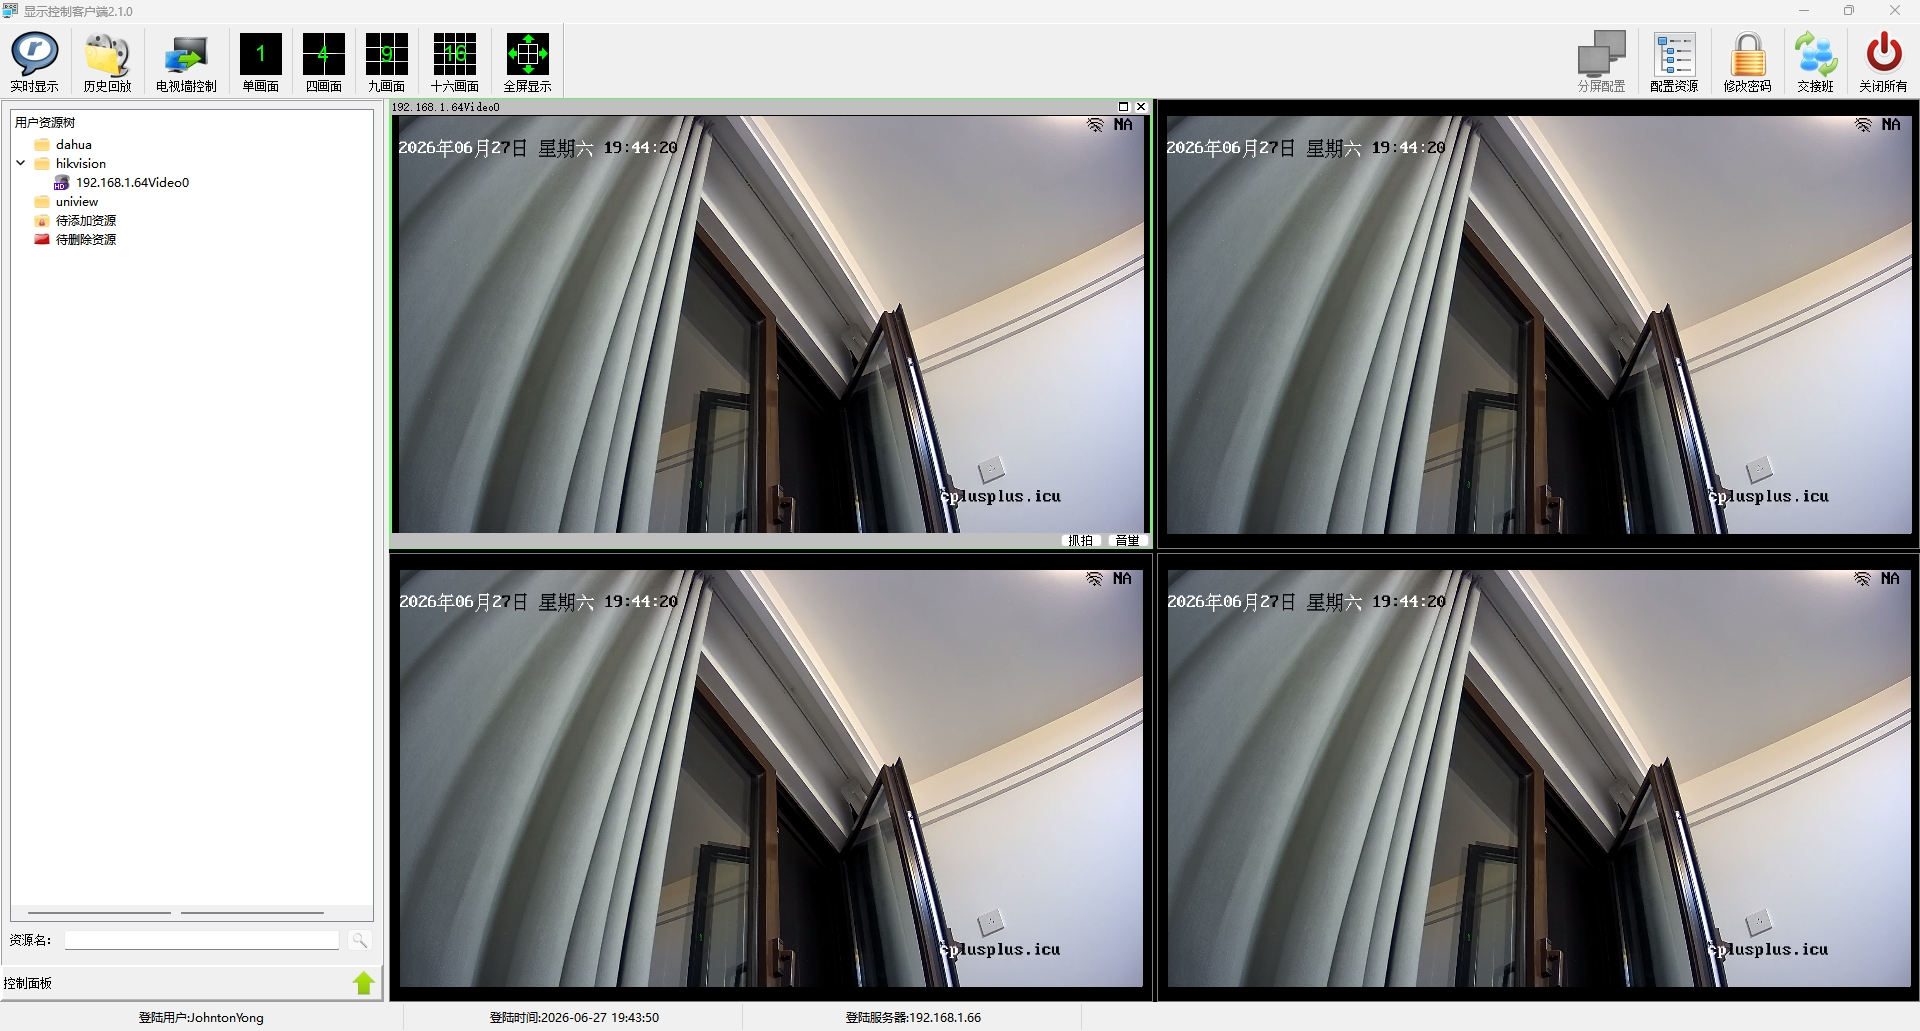
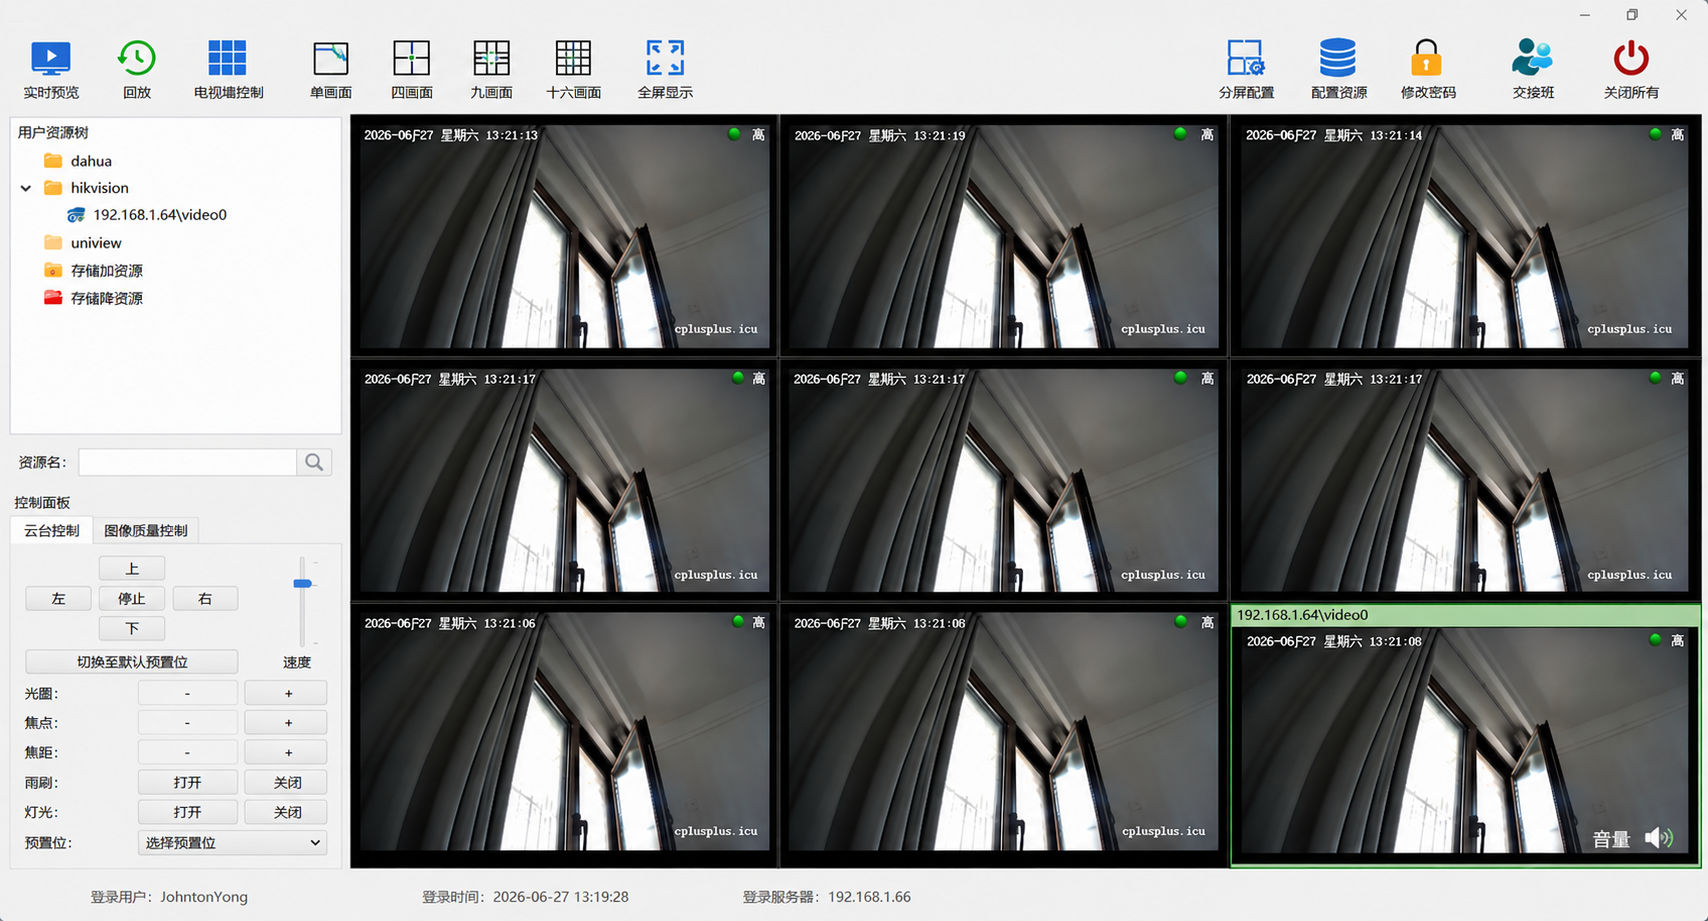
Deploying to gh-pages from @ JohntonYong/JohntonYong.github.io@3825798bbfa2bf3d759f999a42f9381e4f127e44 🚀

diff --git a/404.html b/404.html
@@ -34,7 +34,7 @@
     
   </head>
   <body>
-    <div id="app"><!--[--><!--[--><!--[--><span tabindex="-1"></span><a href="#main-content" class="vp-skip-link sr-only">跳至主要內容</a><!--]--><!--[--><div class="theme-container no-sidebar has-toc"><!--[--><header id="navbar" class="vp-navbar"><div class="vp-navbar-start"><button type="button" class="vp-toggle-sidebar-button" title="Toggle Sidebar"><span class="icon"></span></button><!--[--><!----><!--]--><!--[--><a class="vp-link vp-brand vp-brand" href="/"><img class="vp-nav-logo" src="/logo.svg" alt="C++工程化实践指南"><!----><span class="vp-site-name hide-in-pad">C++工程化实践指南</span></a><!--]--><!--[--><!----><!--]--></div><div class="vp-navbar-center"><!--[--><!----><!--]--><!--[--><!--]--><!--[--><!----><!--]--></div><div class="vp-navbar-end"><!--[--><!----><!--]--><!--[--><nav class="vp-nav-links"><div class="nav-item hide-in-mobile"><a aria-label="首页" class="vp-link nav-link nav-link" href="/"><span class="font-icon icon fa-fw fa-sm fas fa-home" style=""></span>首页<!----></a></div><div class="nav-item hide-in-mobile"><a aria-label="指南" class="vp-link nav-link nav-link" href="/guide/"><span class="font-icon icon fa-fw fa-sm fas fa-terminal" style=""></span>指南<!----></a></div><div class="nav-item hide-in-mobile"><a aria-label="快速开始" class="vp-link nav-link nav-link" href="/tutorial/"><span class="font-icon icon fa-fw fa-sm fas fa-lightbulb" style=""></span>快速开始<!----></a></div><div class="nav-item hide-in-mobile"><div class="dropdown-wrapper"><button type="button" class="dropdown-title" aria-label="参考"><span class="title"><span class="font-icon icon fa-fw fa-sm fas fa-lightbulb" style=""></span>参考</span><span class="arrow"></span><ul class="nav-dropdown"><li class="dropdown-item"><a aria-label="相关标准" class="vp-link nav-link nav-link" href="/reference/resources.html"><span class="font-icon icon fa-fw fa-sm fas fa-font-awesome" style=""></span>相关标准<!----></a></li></ul></button></div></div><div class="nav-item hide-in-mobile"><div class="dropdown-wrapper"><button type="button" class="dropdown-title" aria-label="了解更多"><span class="title"><span class="font-icon icon fa-fw fa-sm fas fa-laptop-code" style=""></span>了解更多</span><span class="arrow"></span><ul class="nav-dropdown"><li class="dropdown-item"><a aria-label="关于作者" class="vp-link nav-link nav-link" href="/more/contact.html"><span class="font-icon icon fa-fw fa-sm fas fa-circle-info" style=""></span>关于作者<!----></a></li><li class="dropdown-item"><a aria-label="2026年2月“十五五”首个中央一号文件解读" class="vp-link nav-link nav-link" href="/more/future-2026.html"><span class="font-icon icon fa-fw fa-sm fas fa-circle-info" style=""></span>2026年2月“十五五”首个中央一号文件解读<!----></a></li></ul></button></div></div></nav><!----><div class="nav-item vp-repo"><a class="vp-repo-link" href="https://github.com/JohntonYong/JohntonYong.github.io" target="_blank" rel="noopener noreferrer" aria-label="GitHub"><svg xmlns="http://www.w3.org/2000/svg" class="icon github-icon" viewBox="[phone redacted]" fill="currentColor" aria-label="github icon" style="width:1.25rem;height:1.25rem;vertical-align:middle;"><path d="M511.957 21.333C241.[phone redacted] [phone redacted] 512c0 [phone redacted].[phone redacted] [phone redacted].[phone redacted].[phone redacted].[phone redacted]-[phone redacted].[phone redacted].[phone redacted]-[phone redacted] [phone redacted].[phone redacted].[phone redacted].[phone redacted] [phone redacted].[phone redacted] [phone redacted]-[phone redacted].[phone redacted]-[phone redacted].[phone redacted].[phone redacted].[phone redacted]-[phone redacted].[phone redacted].346a469.[phone redacted].88-16.554c41.[phone redacted] [phone redacted]-[phone redacted].[phone redacted] [phone redacted] [phone redacted].[phone redacted].[phone redacted] [phone redacted].[phone redacted] [phone redacted] [phone redacted] 90.454v135.85c0 [phone redacted] [phone redacted].87C862.25 [phone redacted].667 [phone redacted].667 512c0-[phone redacted].[phone redacted].667z"></path></svg></a></div><div class="nav-item hide-in-mobile"><button type="button" id="appearance-switch"><svg xmlns="http://www.w3.org/2000/svg" class="icon auto-icon" viewBox="[phone redacted]" fill="currentColor" aria-label="auto icon" style="display:block;"><path d="M512 992C246.[phone redacted] 512S246.[phone redacted] 32s480 [phone redacted].[phone redacted] 480zm0-840c-[phone redacted]-[phone redacted].[phone redacted] 360s360-[phone redacted]-360c0-[phone redacted]-360-360zm0 660V212c165.[phone redacted] [phone redacted] 300-300 300z"></path></svg><svg xmlns="http://www.w3.org/2000/svg" class="icon dark-icon" viewBox="[phone redacted]" fill="currentColor" aria-label="dark icon" style="display:none;"><path d="M524.8 938.667h-4.267a439.[phone redacted].[phone redacted] [phone redacted]-597.334A432.[phone redacted].933 90.027a42.[phone redacted].[phone redacted].[phone redacted] [phone redacted].[phone redacted] [phone redacted] [phone redacted] [phone redacted].[phone redacted].[phone redacted] [phone redacted] 128z"></path></svg><svg xmlns="http://www.w3.org/2000/svg" class="icon light-icon" viewBox="[phone redacted]" fill="currentColor" aria-label="light icon" style="display:none;"><path d="M952 552h-80a40 40 0 0 1 0-80h80a40 40 0 0 1 0 80zM801.88 280.08a41 [phone redacted].96l57.96-58a41.[phone redacted] 58l-58 57.96zM512 752a240 [phone redacted] [phone redacted] 480zm0-560a40 [phone redacted]-40V72a40 [phone redacted] 0v80a40 [phone redacted] 40zm-[phone redacted].96a41.[phone redacted]-58l57.96 58a41 [phone redacted].96zM192 512a40 [phone redacted] 40H72a40 40 0 0 1 0-80h80a40 [phone redacted] 40zm30.12 231.92a41 [phone redacted].96l-57.96 58a41.[phone redacted]-58l58-57.96zM512 832a40 [phone redacted] 40v80a40 [phone redacted] 0v-80a40 [phone redacted]-40zm289.[phone redacted].96a41.[phone redacted] 58l-57.96-58a41 [phone redacted].96z"></path></svg></button></div><!----><!--]--><!--[--><!----><!--]--><button type="button" class="vp-toggle-navbar-button" aria-label="Toggle Navbar" aria-expanded="false" aria-controls="nav-screen"><span><span class="vp-top"></span><span class="vp-middle"></span><span class="vp-bottom"></span></span></button></div></header><!----><!--]--><!----><div class="toggle-sidebar-wrapper"><span class="arrow start"></span></div><aside id="sidebar" class="vp-sidebar"><!--[--><!----><!--]--><ul class="vp-sidebar-links"></ul><!--[--><!----><!--]--></aside><!--[--><main id="main-content" class="vp-page not-found"><div class="not-found-hint"><p class="error-code">404</p><h1 class="error-title">页面不存在</h1><p class="error-hint">我们是怎么来到这儿的？</p></div><div class="actions"><button type="button" class="action-button">返回上一页</button><button type="button" class="action-button">带我回家</button></div></main><!--]--><footer class="vp-footer-wrapper"><div class="vp-footer">MIT Licensed</div><div class="vp-copyright">Copyright © 2026 JohntonYong</div></footer></div><!--]--><!--]--><!----><!--]--></div>
+    <div id="app"><!--[--><!--[--><!--[--><span tabindex="-1"></span><a href="#main-content" class="vp-skip-link sr-only">跳至主要內容</a><!--]--><!--[--><div class="theme-container no-sidebar has-toc"><!--[--><header id="navbar" class="vp-navbar"><div class="vp-navbar-start"><button type="button" class="vp-toggle-sidebar-button" title="Toggle Sidebar"><span class="icon"></span></button><!--[--><!----><!--]--><!--[--><a class="vp-link vp-brand vp-brand" href="/"><img class="vp-nav-logo" src="/logo.svg" alt="C++工程化实践指南"><!----><span class="vp-site-name hide-in-pad">C++工程化实践指南</span></a><!--]--><!--[--><!----><!--]--></div><div class="vp-navbar-center"><!--[--><!----><!--]--><!--[--><!--]--><!--[--><!----><!--]--></div><div class="vp-navbar-end"><!--[--><!----><!--]--><!--[--><nav class="vp-nav-links"><div class="nav-item hide-in-mobile"><a aria-label="首页" class="vp-link nav-link nav-link" href="/"><span class="font-icon icon fa-fw fa-sm fas fa-home" style=""></span>首页<!----></a></div><div class="nav-item hide-in-mobile"><a aria-label="指南" class="vp-link nav-link nav-link" href="/guide/"><span class="font-icon icon fa-fw fa-sm fas fa-terminal" style=""></span>指南<!----></a></div><div class="nav-item hide-in-mobile"><a aria-label="快速开始" class="vp-link nav-link nav-link" href="/tutorial/"><span class="font-icon icon fa-fw fa-sm fas fa-lightbulb" style=""></span>快速开始<!----></a></div><div class="nav-item hide-in-mobile"><div class="dropdown-wrapper"><button type="button" class="dropdown-title" aria-label="参考"><span class="title"><span class="font-icon icon fa-fw fa-sm fas fa-lightbulb" style=""></span>参考</span><span class="arrow"></span><ul class="nav-dropdown"><li class="dropdown-item"><a aria-label="相关标准" class="vp-link nav-link nav-link" href="/reference/resources.html"><span class="font-icon icon fa-fw fa-sm fas fa-font-awesome" style=""></span>相关标准<!----></a></li></ul></button></div></div><div class="nav-item hide-in-mobile"><div class="dropdown-wrapper"><button type="button" class="dropdown-title" aria-label="了解更多"><span class="title"><span class="font-icon icon fa-fw fa-sm fas fa-laptop-code" style=""></span>了解更多</span><span class="arrow"></span><ul class="nav-dropdown"><li class="dropdown-item"><a aria-label="关于作者" class="vp-link nav-link nav-link" href="/more/contact.html"><span class="font-icon icon fa-fw fa-sm fas fa-circle-info" style=""></span>关于作者<!----></a></li><li class="dropdown-item"><a aria-label="2026年2月“十五五”首个中央一号文件解读" class="vp-link nav-link nav-link" href="/more/future-2026.html"><span class="font-icon icon fa-fw fa-sm fas fa-circle-info" style=""></span>2026年2月“十五五”首个中央一号文件解读<!----></a></li></ul></button></div></div></nav><!----><div class="nav-item vp-repo"><a class="vp-repo-link" href="https://github.com/JohntonYong/JohntonYong.github.io" target="_blank" rel="noopener noreferrer" aria-label="GitHub"><svg xmlns="http://www.w3.org/2000/svg" class="icon github-icon" viewBox="[phone redacted]" fill="currentColor" aria-label="github icon" style="width:1.25rem;height:1.25rem;vertical-align:middle;"><path d="M511.957 21.333C241.[phone redacted] [phone redacted] 512c0 [phone redacted].[phone redacted] [phone redacted].[phone redacted].[phone redacted].[phone redacted]-[phone redacted].[phone redacted].[phone redacted]-[phone redacted] [phone redacted].[phone redacted].[phone redacted].[phone redacted] [phone redacted].[phone redacted] [phone redacted]-[phone redacted].[phone redacted]-[phone redacted].[phone redacted].[phone redacted].[phone redacted]-[phone redacted].[phone redacted].346a469.[phone redacted].88-16.554c41.[phone redacted] [phone redacted]-[phone redacted].[phone redacted] [phone redacted] [phone redacted].[phone redacted].[phone redacted] [phone redacted].[phone redacted] [phone redacted] [phone redacted] 90.454v135.85c0 [phone redacted] [phone redacted].87C862.25 [phone redacted].667 [phone redacted].667 512c0-[phone redacted].[phone redacted].667z"></path></svg></a></div><div class="nav-item hide-in-mobile"><button type="button" id="appearance-switch"><svg xmlns="http://www.w3.org/2000/svg" class="icon auto-icon" viewBox="[phone redacted]" fill="currentColor" aria-label="auto icon" style="display:block;"><path d="M512 992C246.[phone redacted] 512S246.[phone redacted] 32s480 [phone redacted].[phone redacted] 480zm0-840c-[phone redacted]-[phone redacted].[phone redacted] 360s360-[phone redacted]-360c0-[phone redacted]-360-360zm0 660V212c165.[phone redacted] [phone redacted] 300-300 300z"></path></svg><svg xmlns="http://www.w3.org/2000/svg" class="icon dark-icon" viewBox="[phone redacted]" fill="currentColor" aria-label="dark icon" style="display:none;"><path d="M524.8 938.667h-4.267a439.[phone redacted].[phone redacted] [phone redacted]-597.334A432.[phone redacted].933 90.027a42.[phone redacted].[phone redacted].[phone redacted] [phone redacted].[phone redacted] [phone redacted] [phone redacted] [phone redacted].[phone redacted].[phone redacted] [phone redacted] 128z"></path></svg><svg xmlns="http://www.w3.org/2000/svg" class="icon light-icon" viewBox="[phone redacted]" fill="currentColor" aria-label="light icon" style="display:none;"><path d="M952 552h-80a40 40 0 0 1 0-80h80a40 40 0 0 1 0 80zM801.88 280.08a41 [phone redacted].96l57.96-58a41.[phone redacted] 58l-58 57.96zM512 752a240 [phone redacted] [phone redacted] 480zm0-560a40 [phone redacted]-40V72a40 [phone redacted] 0v80a40 [phone redacted] 40zm-[phone redacted].96a41.[phone redacted]-58l57.96 58a41 [phone redacted].96zM192 512a40 [phone redacted] 40H72a40 40 0 0 1 0-80h80a40 [phone redacted] 40zm30.12 231.92a41 [phone redacted].96l-57.96 58a41.[phone redacted]-58l58-57.96zM512 832a40 [phone redacted] 40v80a40 [phone redacted] 0v-80a40 [phone redacted]-40zm289.[phone redacted].96a41.[phone redacted] 58l-57.96-58a41 [phone redacted].96z"></path></svg></button></div><!----><!--]--><!--[--><!----><!--]--><button type="button" class="vp-toggle-navbar-button" aria-label="Toggle Navbar" aria-expanded="false" aria-controls="nav-screen"><span><span class="vp-top"></span><span class="vp-middle"></span><span class="vp-bottom"></span></span></button></div></header><!----><!--]--><!----><div class="toggle-sidebar-wrapper"><span class="arrow start"></span></div><aside id="sidebar" class="vp-sidebar"><!--[--><!----><!--]--><ul class="vp-sidebar-links"></ul><!--[--><!----><!--]--></aside><!--[--><main id="main-content" class="vp-page not-found"><div class="not-found-hint"><p class="error-code">404</p><h1 class="error-title">页面不存在</h1><p class="error-hint">这里什么也没有</p></div><div class="actions"><button type="button" class="action-button">返回上一页</button><button type="button" class="action-button">带我回家</button></div></main><!--]--><footer class="vp-footer-wrapper"><div class="vp-footer">MIT Licensed</div><div class="vp-copyright">Copyright © 2026 JohntonYong</div></footer></div><!--]--><!--]--><!----><!--]--></div>
     <script type="module" src="/assets/app-Kk8o9f0t.js" defer></script>
   </body>
 </html>